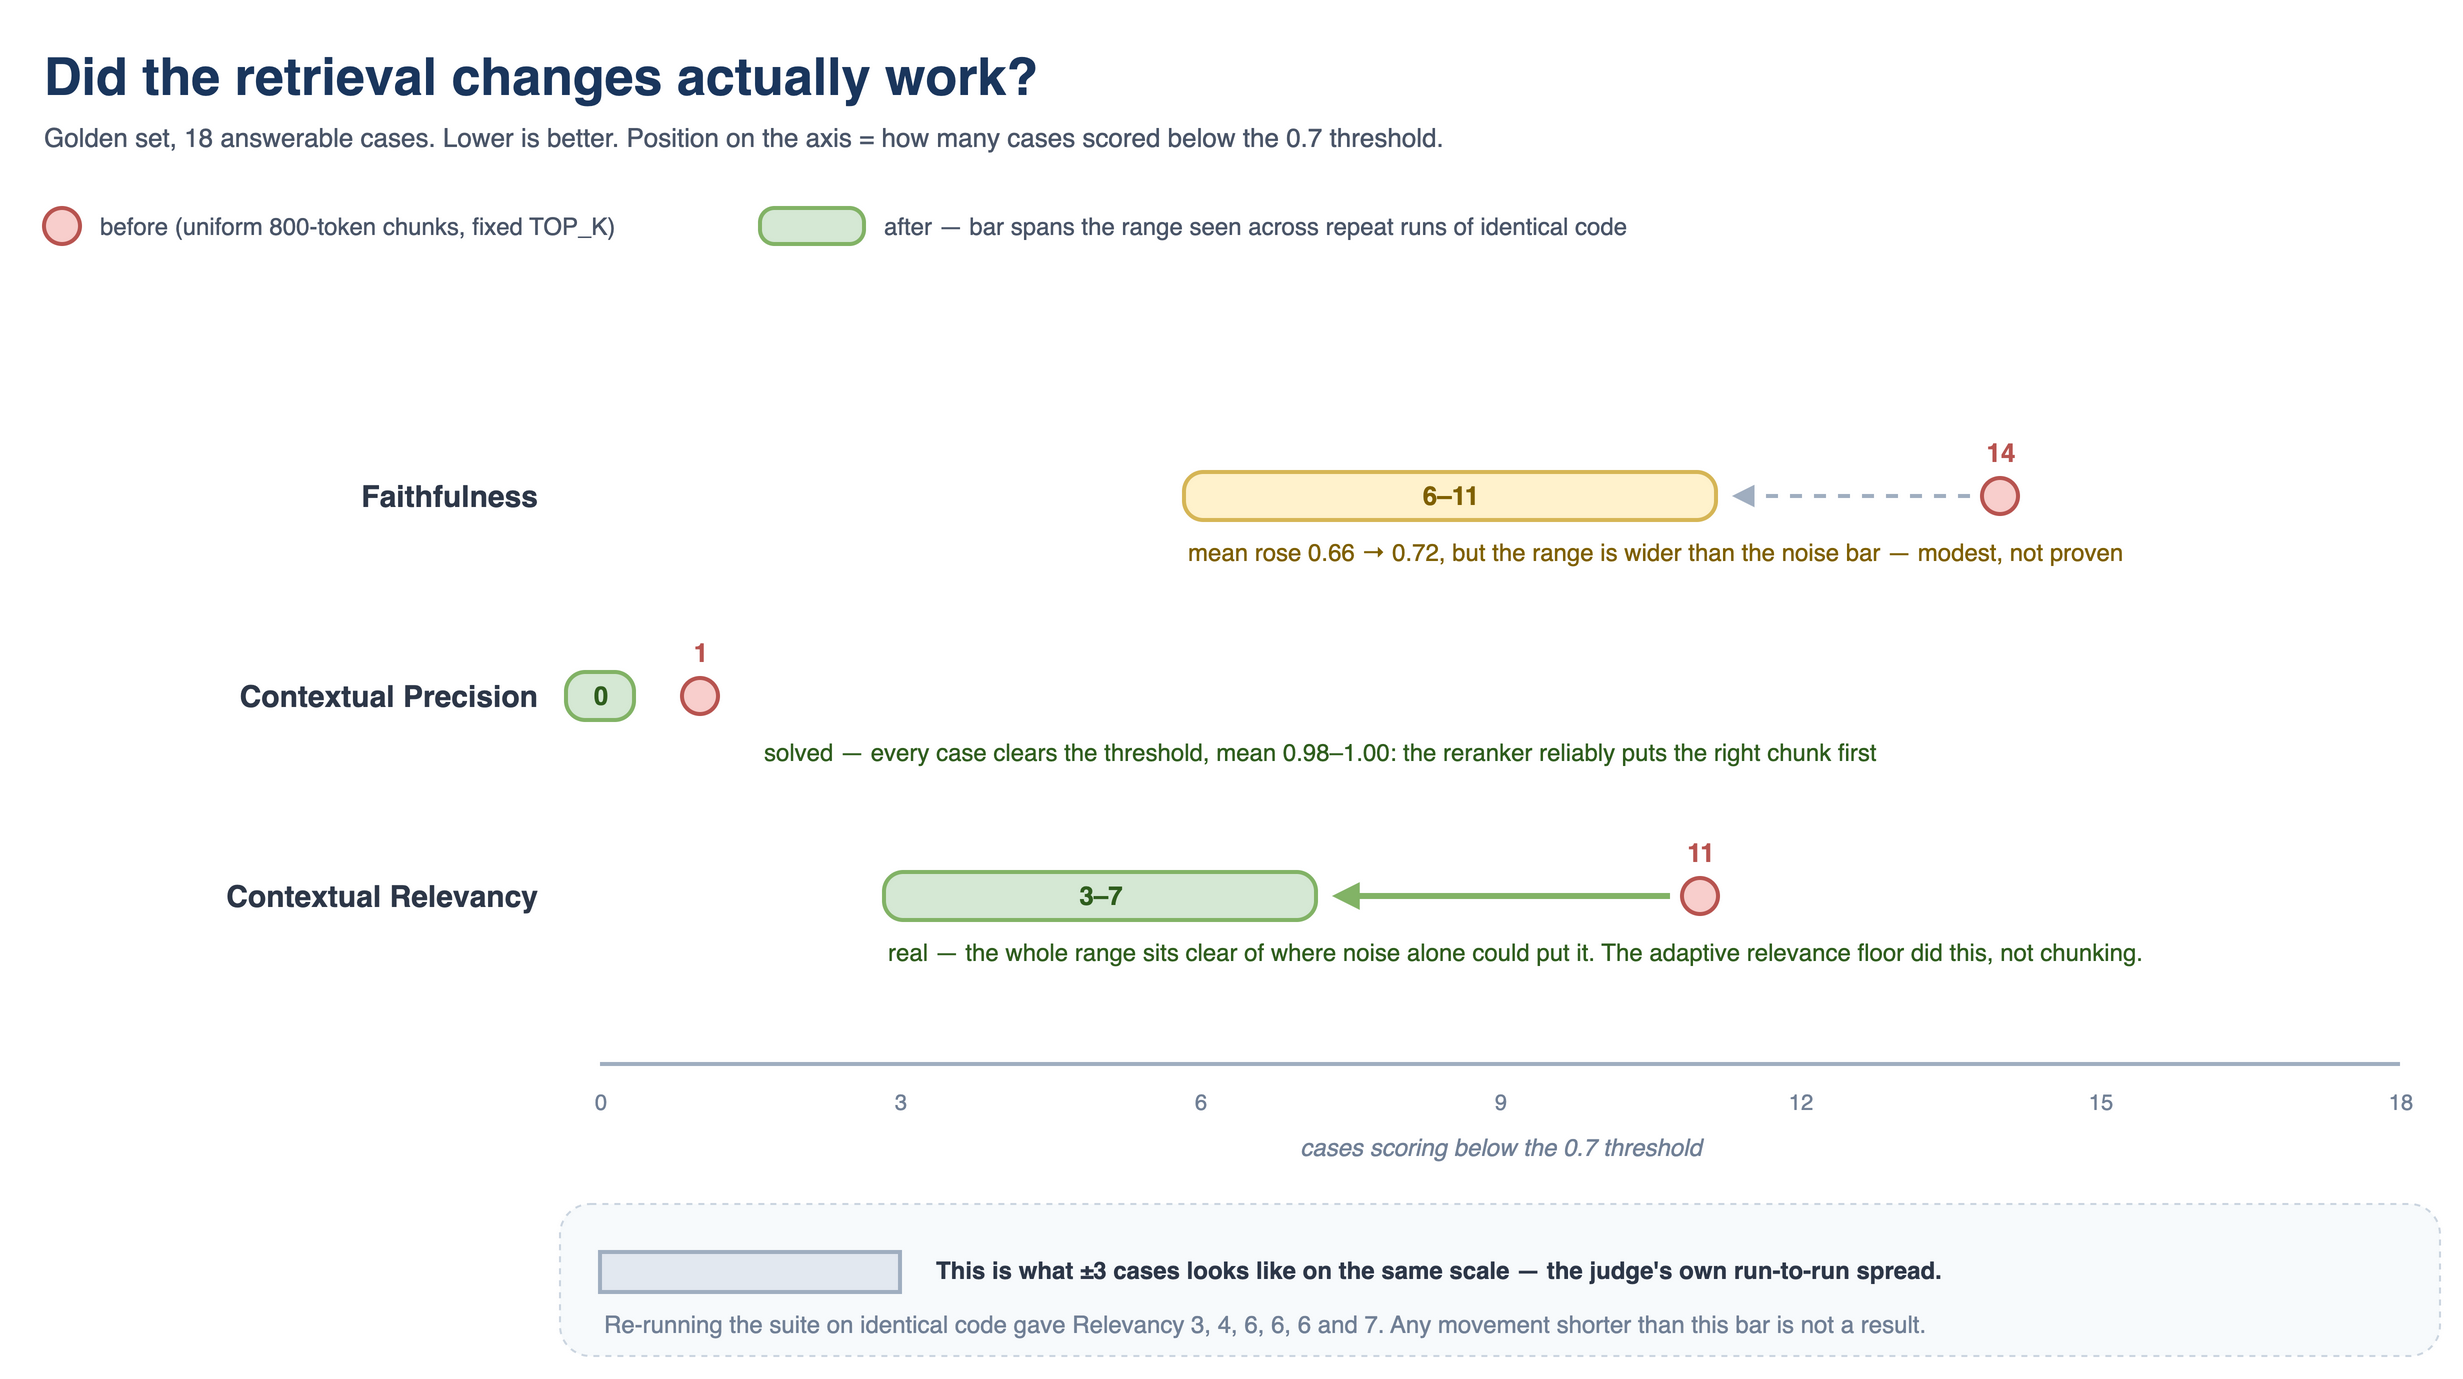
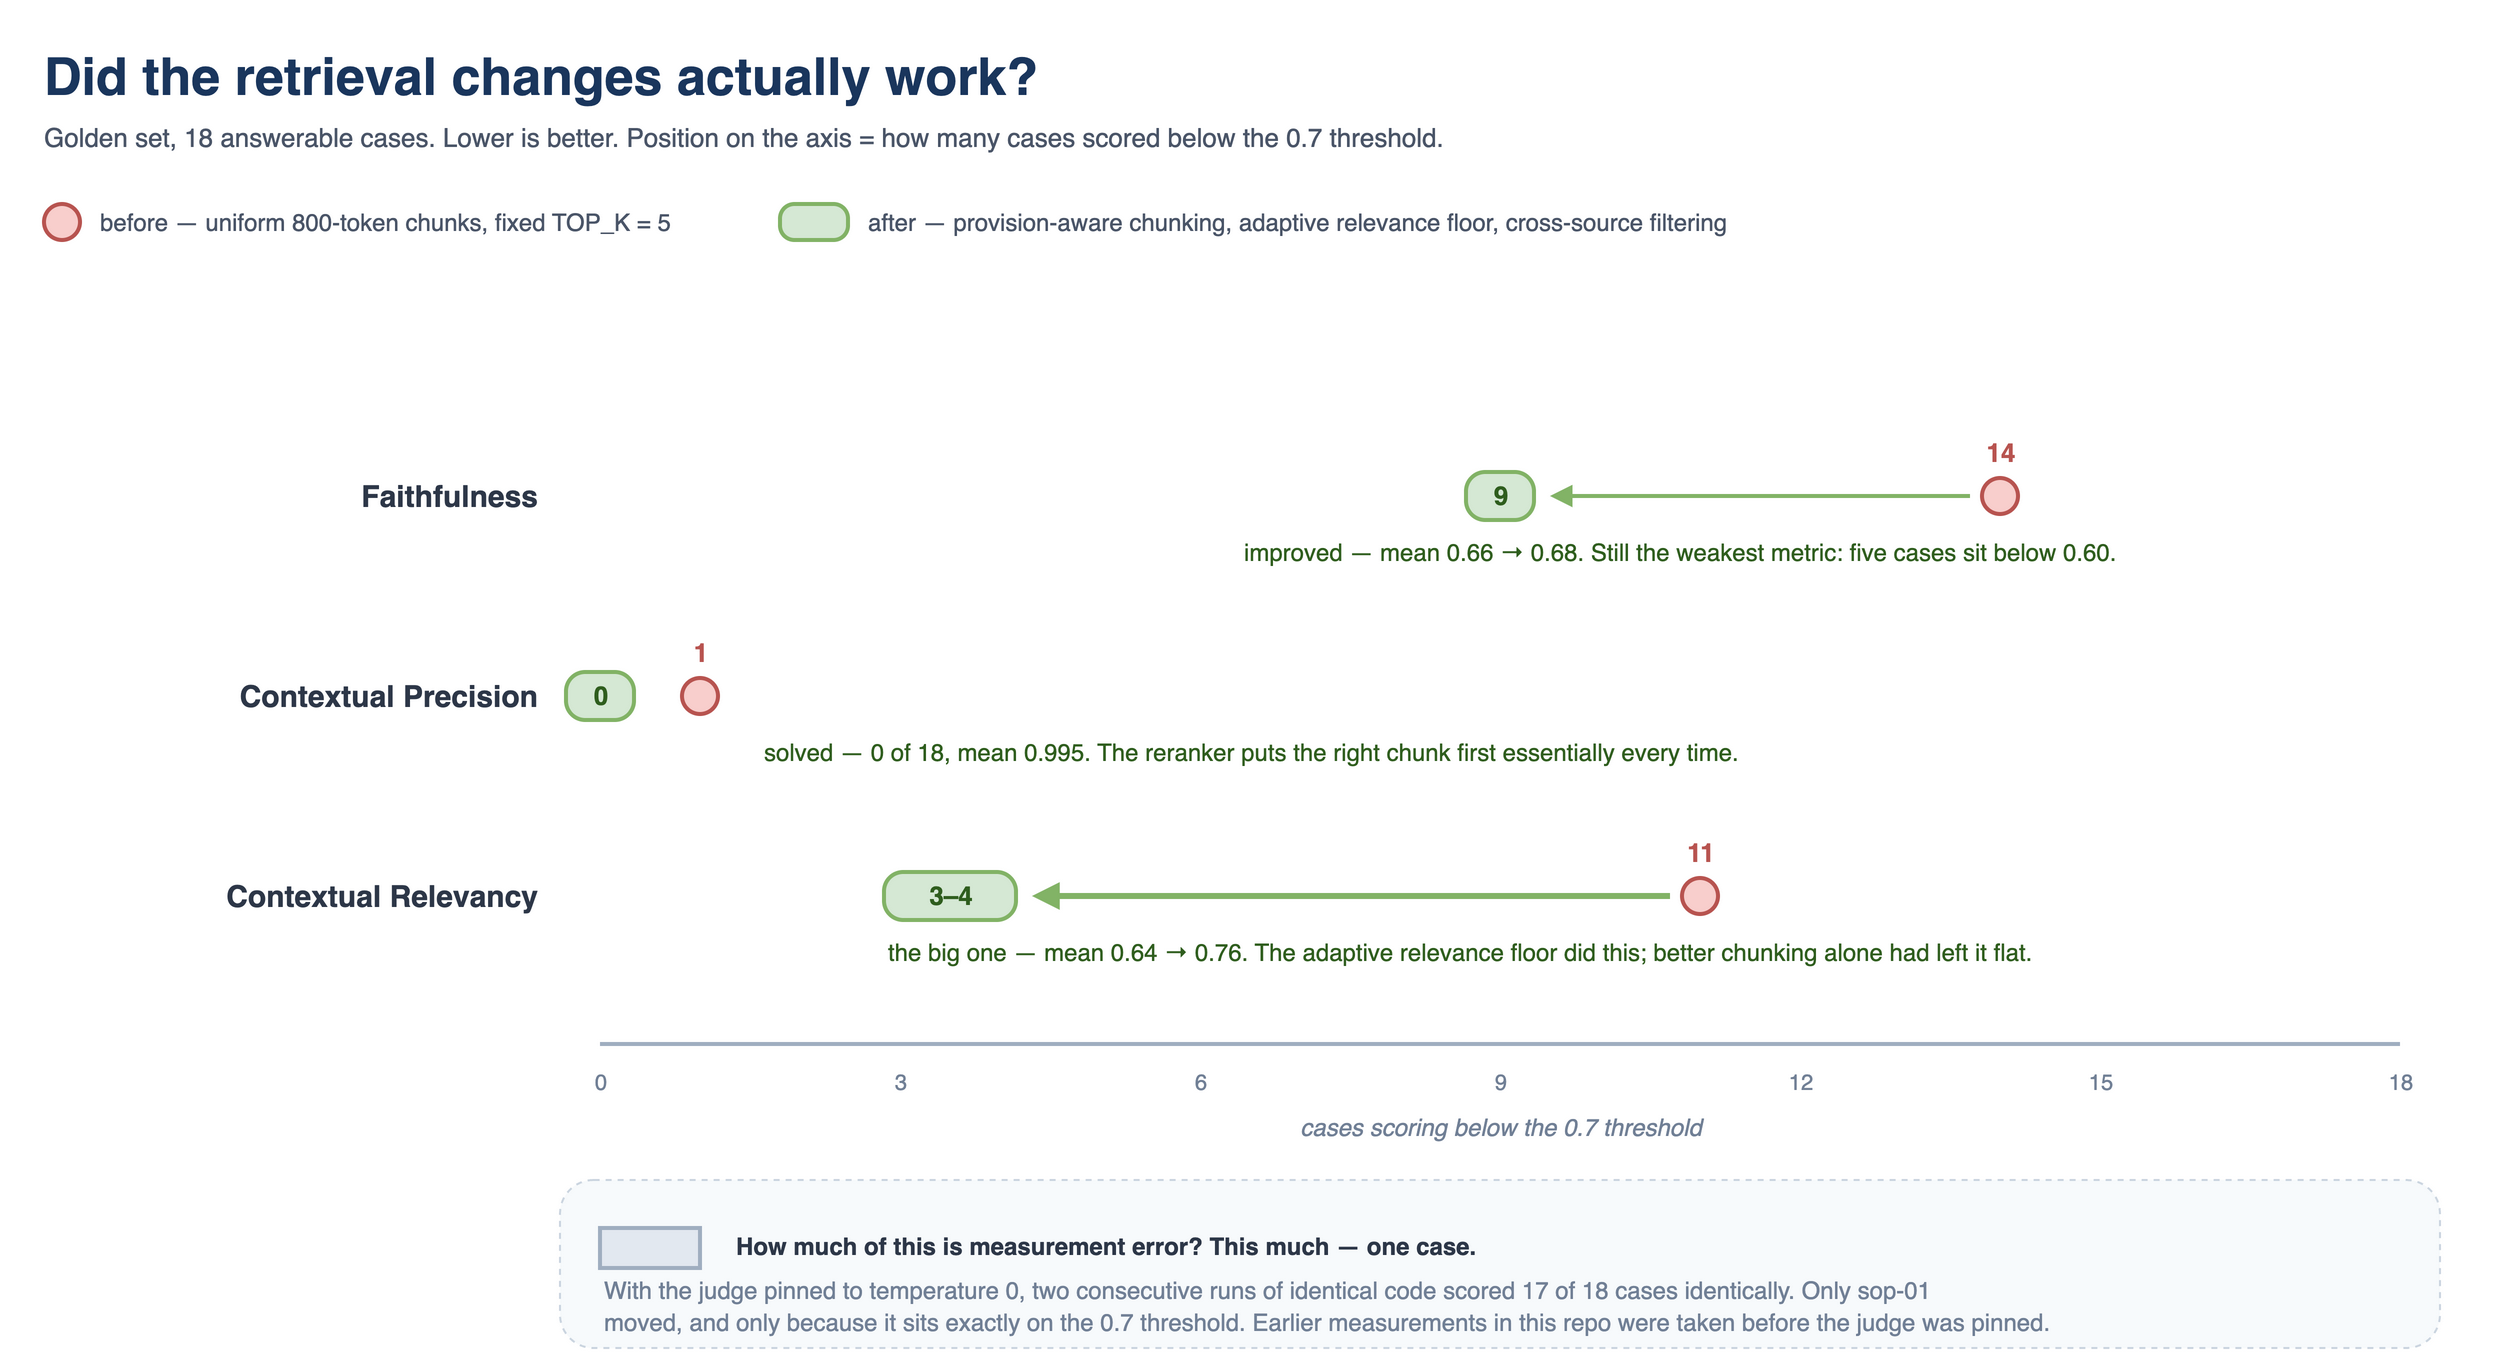
Redraw the results chart against the deterministic judge
The chart showed wide "after" bands and a three-case noise bar, both measured
while the judge was sampling at default temperature. With it pinned the bands
collapse to points and the noise bar is one case wide, so the movements read
as results rather than as a range the reader has to discount.

Numbers are now the measured ones: Faithfulness 14 to 9, Precision 1 to 0,
Relevancy 11 to 3-4, with the means alongside. The Faithfulness caption says
it is still the weakest metric rather than leaving the arrow to imply success.

diff --git a/README.md b/README.md
@@ -242,9 +242,7 @@ A `NonAdvice` metric was tried and removed: in a regulatory-explainer domain it 
 
 Contextual Relevancy improved sharply, Contextual Precision is effectively solved, and Faithfulness improved in the mean. [docs/evaluation.md](docs/evaluation.md) explains what each metric measures, how it is computed, which changes worked, and which did not.
 
-**A note on the ranges in the chart.** They were measured while the judge was running at Bedrock's default temperature, because DeepEval sends `inferenceConfig={**generation_kwargs}` and defaults that to `{}` — so nothing pinned it. Every verdict was a fresh sample, and repeat runs of one build moved by up to three cases. With the judge pinned to `temperature=0`, two consecutive runs now score **17 of 18 cases identically**, and the only case that moves sits exactly on the threshold.
-
-The bands are therefore a record of how the earlier comparisons were made, not a claim about how noisy this evaluation is today. Changes previously dismissed as "inside the noise" are worth re-measuring against the stable judge.
+**The judge is pinned to `temperature=0`.** DeepEval sends `inferenceConfig={**generation_kwargs}` and defaults that to `{}`, so left alone the grader samples at the model's default temperature and its own noise gets attributed to the code under test. Pinned, two consecutive runs score **17 of 18 cases identically** — which is what makes the movements above readable as results rather than as sampling.
 
 ## CI
 
